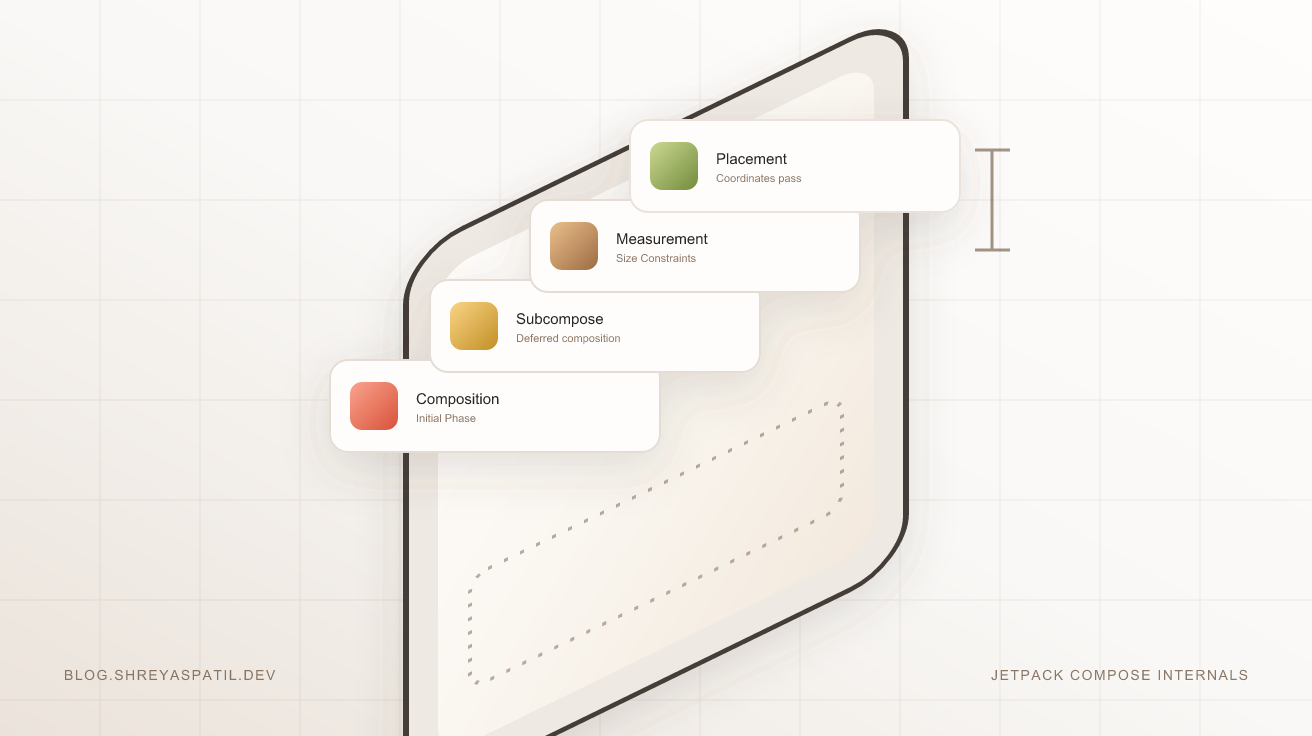
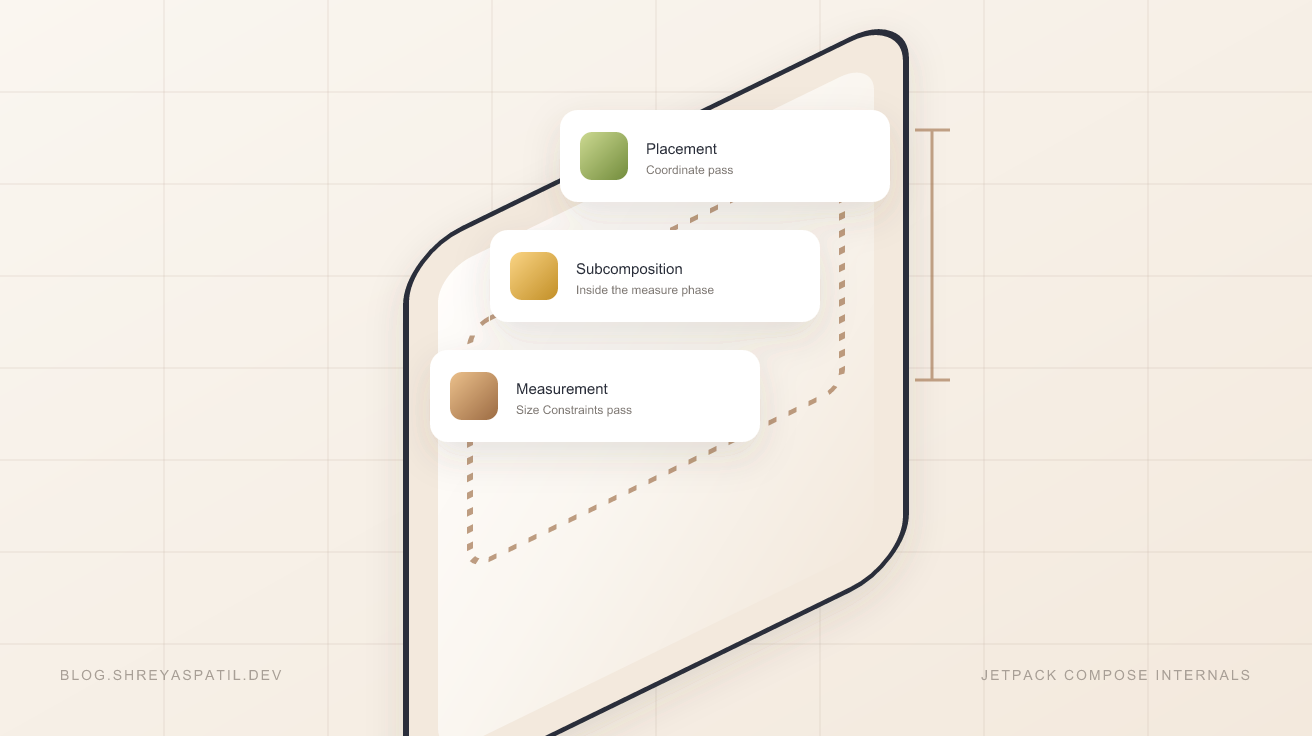
style(blog): update SubcomposeLayout cover image to accurately depict composition within measurement

diff --git a/src/data/blog/inside-subcomposelayout-jetpack-composes-most-misunderstood-api.md b/src/data/blog/inside-subcomposelayout-jetpack-composes-most-misunderstood-api.md
@@ -19,7 +19,7 @@ coverImage: "../../assets/images/cover-inside-subcomposelayout-jetpack-composes-
 
 Hey Composers 👋, if you've built a complex UI in Jetpack Compose, you've probably reached for `BoxWithConstraints`. And by doing so, you've probably paid a performance tax you didn't fully understand.
 
-`SubcomposeLayout` (the engine powering `BoxWithConstraints`, `LazyColumn`, and complex custom layouts) is a blunt instrument that breaks the fundamental rules of the Compose pipeline, and it does so unapologetically.
+`SubcomposeLayout` (the engine powering `BoxWithConstraints`, `LazyColumn`, and complex custom layouts) is a blunt instrument that breaks the fundamental rules of the Compose pipeline.
 
 There's a popular piece of advice floating around: _"`SubcomposeLayout` is expensive, avoid it."_ But _why_ is it expensive? What exactly happens under the hood when you subcompose? In this post, we'll look directly at the AOSP source code to understand what subcomposition really does, why it stalls the layout pipeline, and where the real cost comes from.
 
@@ -195,7 +195,7 @@ private fun subcompose(node: LayoutNode, content: @Composable () -> Unit) {
 }
 ```
 
-This is the crucial insight: **subcomposition is real composition.** It runs the composer, allocates slot tables, processes `remember`s, registers `RememberObserver`s and `SideEffect`s, the full machinery. It's not a cheap "layout-only" shortcut. The cost is the cost of composing those composables, just shifted into the measure pass.
+**Subcomposition is real composition.** It runs the composer, allocates slot tables, processes `remember`s, registers `RememberObserver`s and `SideEffect`s, the full machinery. It's not a cheap "layout-only" shortcut. The cost is the cost of composing those composables, just shifted into the measure pass.
 
 If you're wondering how parent recomposition propagates into child subcompositions, `SubcomposeLayout` achieves this by executing a `SideEffect { state.forceRecomposeChildren() }` in its public composable.
 
@@ -310,7 +310,7 @@ After all this digging, the advice "avoid `SubcomposeLayout`" becomes more nuanc
 
 ### "Key was already used" in LazyColumn
 
-- **Free real-world insight:** Have you ever seen the crash `"Key $slotId was already used. If you are using LazyColumn/Row please make sure you provide a unique key for each item"`? Under the hood, this happens because `slotIdToNode.getOrPut` tries to register the same key twice in the `SubcomposeLayout`'s active slots during the measure pass.
+- **Free real-world insight:** Have you ever seen the crash `"Key $slotId was already used. If you are using LazyColumn/Row please make sure you provide a unique key for each item"`? Under the hood, when you subcompose the same `slotId` twice in one measure pass, the second lookup returns a node already placed at an earlier index (`itemIndex < currentIndex`), and the internal `requirePrecondition` fails.
 
 - **Prefer higher-level APIs when they exist.** Often you don't need to hand-write a `SubcomposeLayout` at all. Components like `BoxWithConstraints` and `LazyColumn`/`LazyRow` already wrap subcomposition for you. Even for complex flow layouts with dynamic overflow indicators (like a "+3 more" chip), use `FlowRow` or `FlowColumn` with the `overflow` and `maxLines` overloads. Reach for these built-in tools first and only drop down to a custom `SubcomposeLayout` when none of them fit.
 - **Keep an eye on newer layout tools (and how they interact!).** `LookaheadScope` lets Compose pre-measure a target layout so children can animate toward it. In Compose 1.7+, `SubcomposeLayout` hooks deeply into this via `ApproachMeasureScopeImpl`. The subcomposition lambda evaluates the "lookahead" target state, and then dynamically manages slots during the "approach pass" to animate smoothly toward that target. It's highly optimized, but complex to author correctly.
